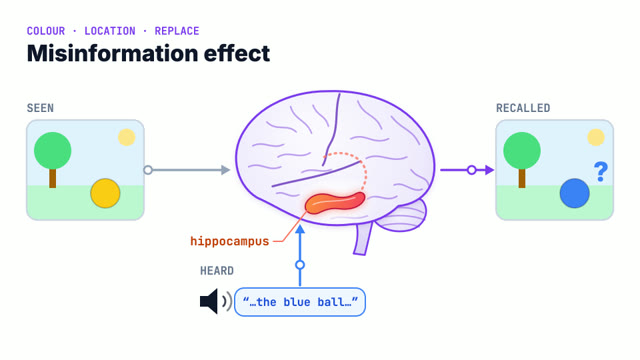
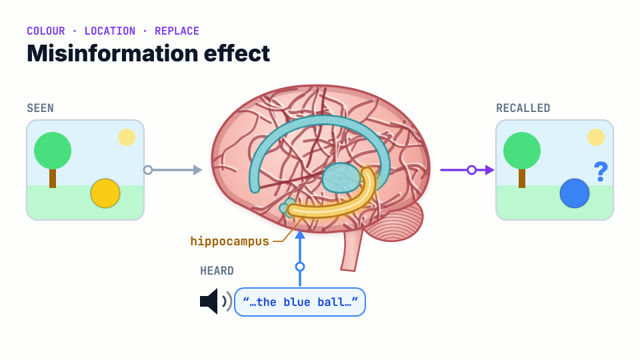
Misinformation thumbnail: textbook-style brain with limbic system and hippocampus

Changed region(s): [[0.2812, 0.2139, 0.6875, 0.7639], [0.3125, 0.6417, 0.4062, 0.7028], [0.4375, 0.7333, 0.5, 0.7639]]

diff --git a/index.html b/index.html
@@ -318,7 +318,7 @@
                     <div class="project-card has-thumb"><a class="project-thumb figure" href="PlateCheck%20final%20poster.png" target="_blank" aria-label="PlateCheck poster"><img src="platecheck_poster_wide_thumb.jpg" alt="PlateCheck poster: Easing Dining Choices, ingredient insight for Korean dishes" loading="lazy"></a><div class="project-body"><h4>3) PlateCheck Application</h4><p class="project-date">Oct. 2024 - Dec. 2024</p><p>Developed LLM based Korean Food Ingredient Recognition that accommodates both food image and text inputs using Django. Integrated a fine-tuned ResNet model for image-based dish identification and utilized GPT-4o Mini for extracting relevant ingredient details. Evaluated the service based on HCI factors via user study.</p><p style="margin-top: 12px; margin-bottom: 0;"><a href="PlateCheck%20final%20poster.png" target="_blank" style="text-decoration: none; color: #3b82f6; font-weight: 600;"><i class="fa-solid fa-image" style="margin-right: 6px;"></i>View Poster</a></p></div></div>
                     <div class="project-card has-thumb"><a class="project-thumb video" href="https://github.com/ys2064/Timeseries_Food-Demand-Forecasting" target="_blank" aria-label="Food demand forecasting code (GitHub)"><video src="food_forecast_anim.mp4?v=2" poster="food_forecast_anim_poster.jpg?v=2" autoplay muted loop playsinline preload="metadata"></video></a><div class="project-body"><h4>4) Food Demand Forecasting using Temporal Convolutional Networks</h4><p class="project-date">Oct. 2024 - Dec. 2024</p><p>Built a time series forecasting model using Temporal Convolutional Network (TCN) to forecast food demand based on historical sales data.</p><p style="margin-top: 12px; margin-bottom: 0;"><a href="https://github.com/ys2064/Timeseries_Food-Demand-Forecasting" target="_blank" style="text-decoration: none; color: #3b82f6; font-weight: 600;"><i class="fa-brands fa-github" style="margin-right: 6px;"></i>View Code</a></p></div></div>
                     <div class="project-card has-thumb"><a class="project-thumb figure" href="Audio%20Summarizer%20Final%20Report.pdf" target="_blank" aria-label="Audio summarizer report (PDF)"><img src="audio_summarizer_architecture_thumb.jpg" alt="Audio Summarizer system architecture: data preparation and BART encoder-decoder" loading="lazy"></a><div class="project-body"><h4>5) News Audio Summarizer using BART</h4><p class="project-date">Sep. 2024 - Dec. 2024</p><p>Designed an NLP-based system for converting audio news content to text and generating concise summaries by fine tuning the BART model on transcribed news articles paired with human written summaries.</p><p style="margin-top: 12px; margin-bottom: 0;"><a href="Audio%20Summarizer%20Final%20Report.pdf" target="_blank" style="text-decoration: none; color: #3b82f6; font-weight: 600;"><i class="fa-solid fa-file-pdf" style="margin-right: 6px;"></i>View Report</a></p></div></div>
-                    <div class="project-card has-thumb"><a class="project-thumb video" href="Memory%20and%20Misinformation%20Effect.pdf" target="_blank" aria-label="Misinformation and memory paper (PDF)"><video src="misinformation_memory.mp4?v=2" poster="misinformation_memory_poster.jpg?v=2" autoplay muted loop playsinline preload="metadata"></video></a><div class="project-body"><h4>6) Perceptual Misinformation and Memory</h4><p class="project-date">March 2024 - June 2024</p><p>Designed and conducted a cognitive psychology experiment investigating how different types of perceptual misinformation influence visual memory, analyzing recall accuracy and reaction times.</p><p style="margin-top: 12px; margin-bottom: 0;"><a href="Memory%20and%20Misinformation%20Effect.pdf" target="_blank" style="text-decoration: none; color: #3b82f6; font-weight: 600;"><i class="fa-solid fa-file-pdf" style="margin-right: 6px;"></i>View Paper</a></p></div></div>
+                    <div class="project-card has-thumb"><a class="project-thumb video" href="Memory%20and%20Misinformation%20Effect.pdf" target="_blank" aria-label="Misinformation and memory paper (PDF)"><video src="misinformation_memory.mp4?v=3" poster="misinformation_memory_poster.jpg?v=3" autoplay muted loop playsinline preload="metadata"></video></a><div class="project-body"><h4>6) Perceptual Misinformation and Memory</h4><p class="project-date">March 2024 - June 2024</p><p>Designed and conducted a cognitive psychology experiment investigating how different types of perceptual misinformation influence visual memory, analyzing recall accuracy and reaction times.</p><p style="margin-top: 12px; margin-bottom: 0;"><a href="Memory%20and%20Misinformation%20Effect.pdf" target="_blank" style="text-decoration: none; color: #3b82f6; font-weight: 600;"><i class="fa-solid fa-file-pdf" style="margin-right: 6px;"></i>View Paper</a></p></div></div>
                 </div>
             </section>
 
